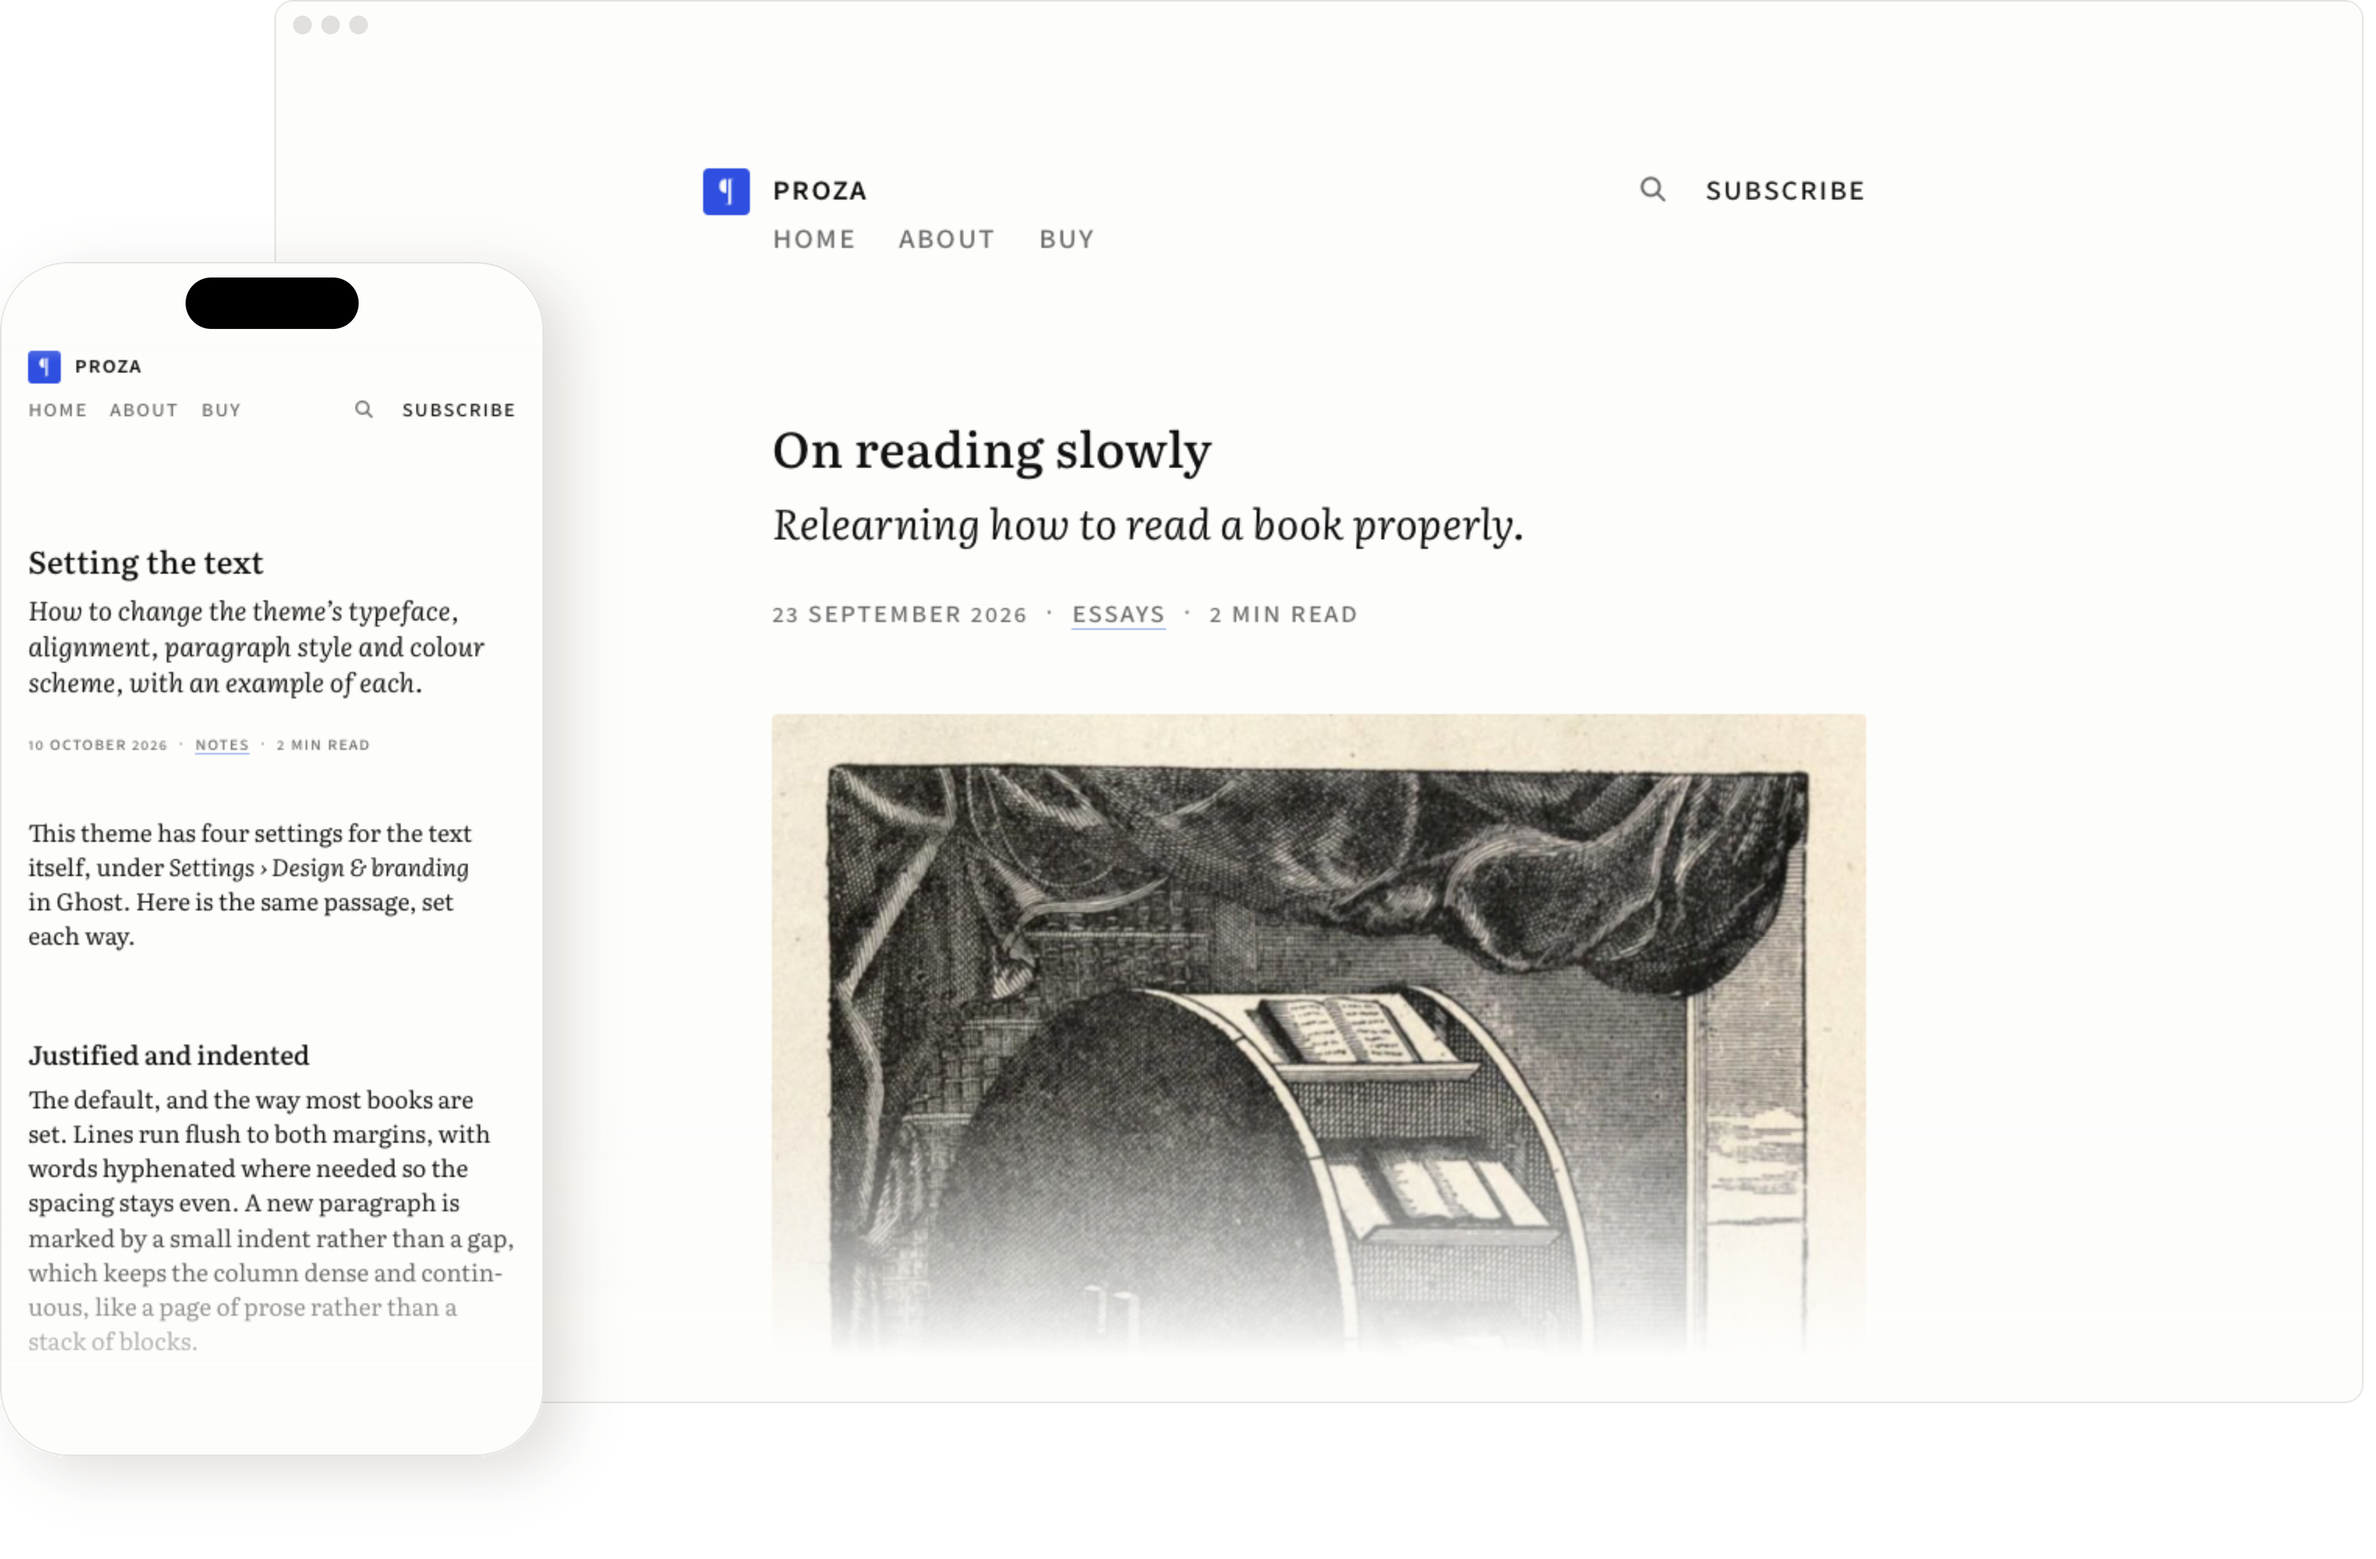
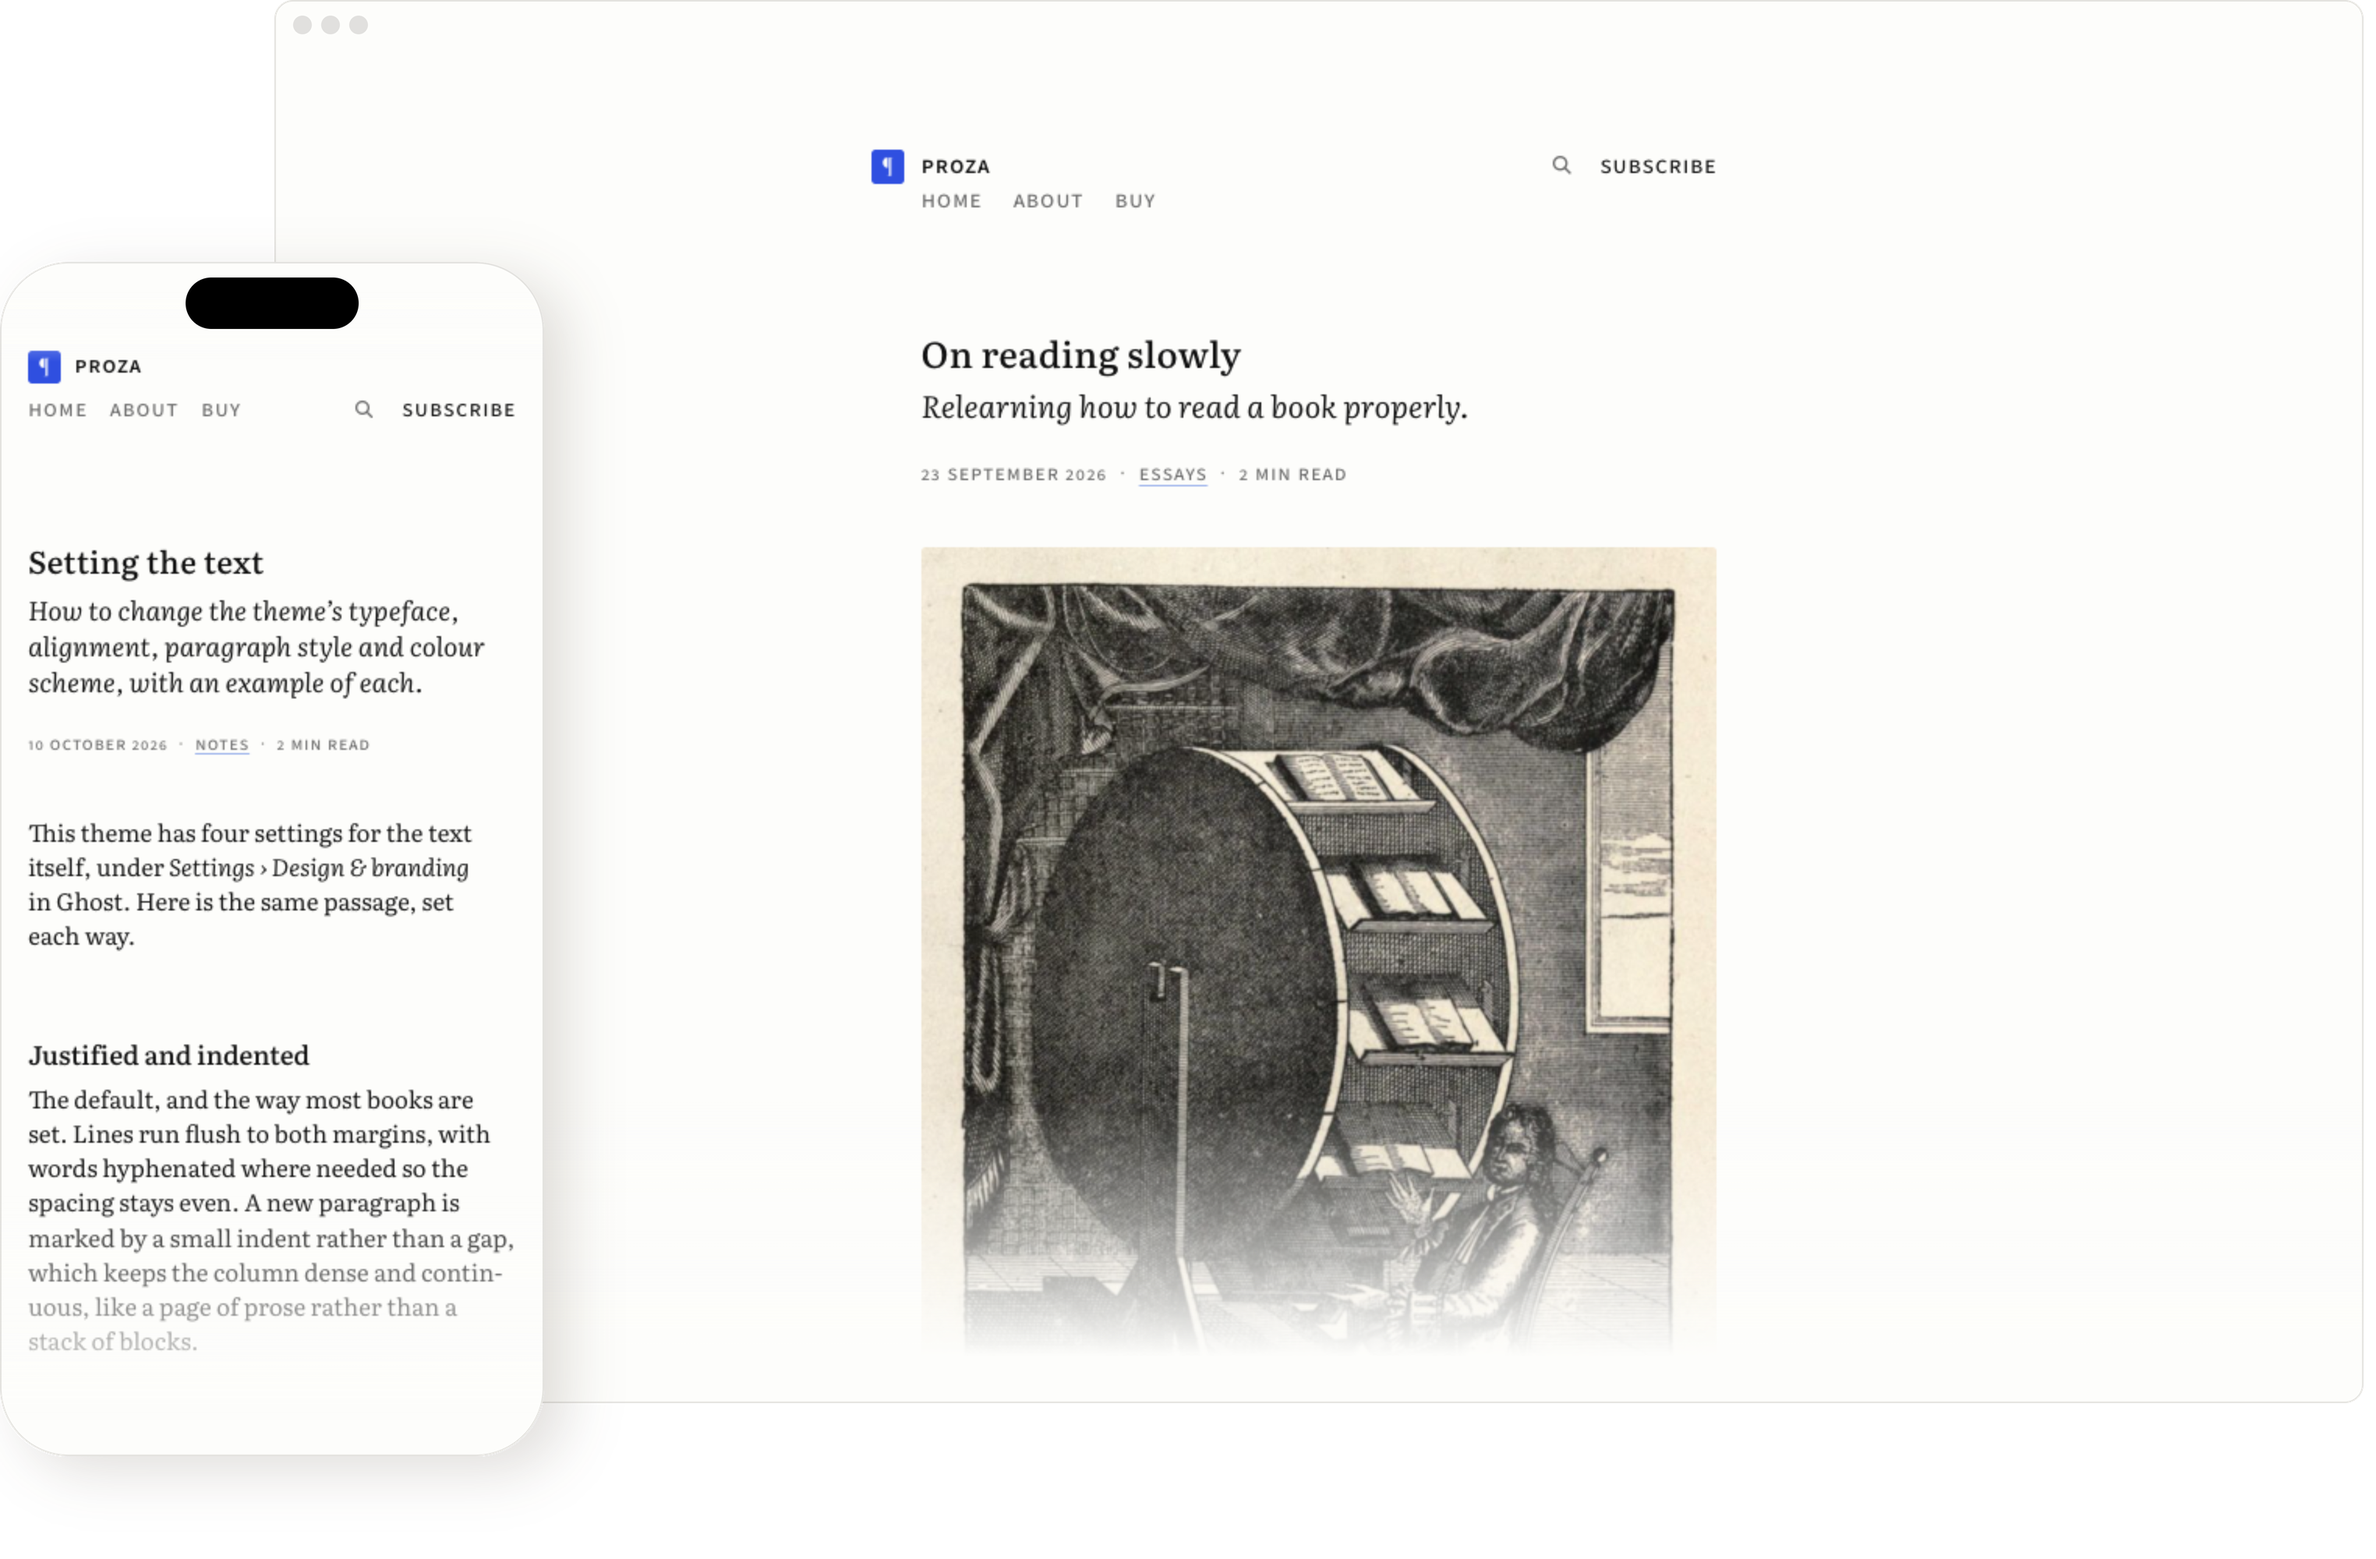
Show the Proza hero’s page at laptop scale, and stop its scroll at the end of the essay

Changed region(s): [[0.3117, 0.217, 0.8104, 0.868], [0.2805, 0.093, 0.4675, 0.155], [0.6545, 0.093, 0.7792, 0.124]]

diff --git a/src/journal/proza-ghost-theme.md b/src/journal/proza-ghost-theme.md
@@ -43,7 +43,7 @@ Scrolling through [Ghost’s marketplace](https://ghost.org/themes/?ref=daniel.p
     <div class="device-stage" style="aspect-ratio: 1524 / 1000">
       <div class="device-screen has-ring" style="left: 11.549%; top: 0; width: 87.927%; height: 90%; border-radius: 0.787cqw">
         <span class="device-dots"><i></i><i></i><i></i></span>
-        <div class="device-page" style="--distance: -75%; --duration: 18s">
+        <div class="device-page" style="--distance: -48%; --duration: 18s">
           <div class="dark:hidden">{% retinaImage "src/assets/journal/proza-hero-page-light.png", "", 1340 %}</div>
           <div class="hidden dark:block">{% retinaImage "src/assets/journal/proza-hero-page-dark.png", "", 1340 %}</div>
         </div>
